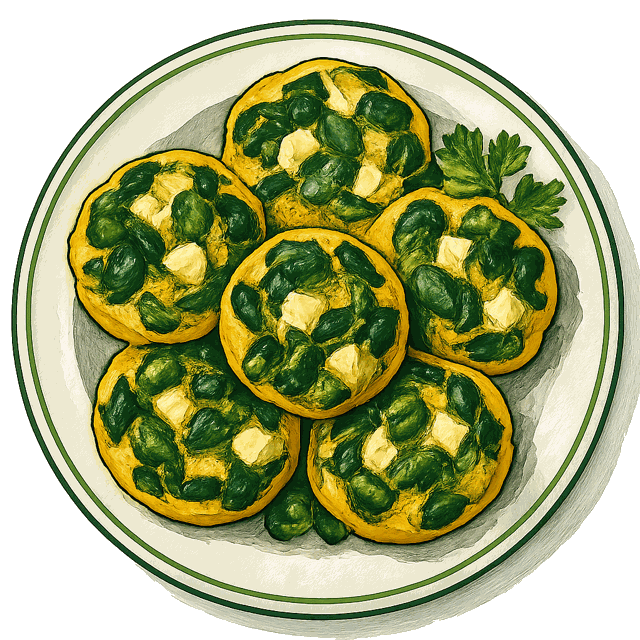
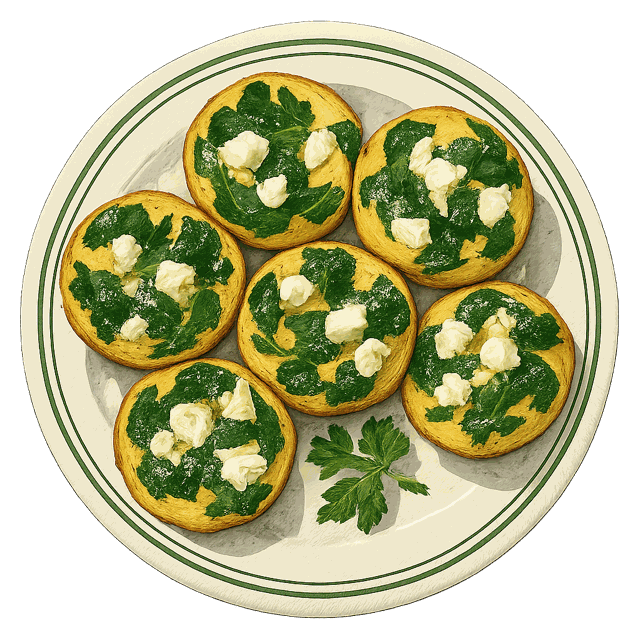
Plate art: reject-and-regenerate non-transparent plates (no flood-fill)
Flood-filling an opaque background on was a hack — it left a non-smooth circle and
uneven transparency. The generator now DETECTS a non-transparent result (opaque
corners) and REJECTS it, regenerating (up to 4 tries) until the plate comes back
cleanly cut out. Regenerated the two previously flood-filled plates
(spinach-feta-egg-muffins, watermelon-feta-salad) — both clean now.

Also reword the use-it-up rail subtitle to "Cook before these ingredients turn"
(it's the ingredients that spoil, not the dishes).

diff --git a/PantryChef/UI/Features/RedesignRootView.swift b/PantryChef/UI/Features/RedesignRootView.swift
@@ -268,7 +268,7 @@ struct RedesignRootView: View {
         leftoversRail
         if store.readinessReady {
             // Use-it-up leads when something's turning — a full rail now, not one card.
-            tierRail("Use it up", "Cook these before they turn", .useItUp)
+            tierRail("Use it up", "Cook before these ingredients turn", .useItUp)
             tierRail("Make it now", "Everything's already on hand", .makeNow, excludingName: featureDish?.name)
             if let feature = featureItem {
                 FeatureCard(item: feature, eyebrow: featureEyebrow, subtitle: featureSubtitle,

diff --git a/tools/generate_plate_art.py b/tools/generate_plate_art.py
@@ -65,26 +65,25 @@ def gen_one(name, key):
     s = slug(name)
     out = os.path.join(ART, f"{s}.png")
     if os.path.exists(out): return (s, "skip")
-    png = paint(name, key)
-    open(out, "wb").write(png)
-    subprocess.run(["sips", "-Z", str(MAXSIDE), out], check=True,
-                   stdout=subprocess.DEVNULL, stderr=subprocess.DEVNULL)
-    normalize_transparency(out)
-    return (s, "ok")
+    # gpt-image-1 occasionally paints an opaque background square despite
+    # background=transparent. We REJECT those and regenerate (never tack on
+    # transparency) — a plate must come back cleanly cut out, or we try again.
+    for attempt in range(4):
+        png = paint(name, key)
+        open(out, "wb").write(png)
+        subprocess.run(["sips", "-Z", str(MAXSIDE), out], check=True,
+                       stdout=subprocess.DEVNULL, stderr=subprocess.DEVNULL)
+        if has_transparent_background(out):
+            return (s, "ok")
+    return (s, "fail-bg")  # accepted last attempt but flagged — never shipped silently
 
-def normalize_transparency(path):
-    """gpt-image-1 occasionally paints an opaque background square despite
-    background=transparent; flood-fill it away from the corners so every plate sits
-    transparently on the page. (PlateArtCoverageTests guards this too.)"""
-    from PIL import Image, ImageDraw
+def has_transparent_background(path):
+    """A clean cutout: all four corners effectively transparent."""
+    from PIL import Image
     im = Image.open(path).convert("RGBA")
     w, h = im.size
-    corners = [(0, 0), (w - 1, 0), (0, h - 1), (w - 1, h - 1)]
-    if all(im.getpixel(c)[3] <= 40 for c in corners):
-        return
-    for c in corners:
-        ImageDraw.floodfill(im, c, (0, 0, 0, 0), thresh=80)
-    im.save(path)
+    corners = [(1, 1), (w - 2, 1), (1, h - 2), (w - 2, h - 2)]
+    return all(im.getpixel(c)[3] <= 40 for c in corners)
 
 def main():
     limit = workers = None
